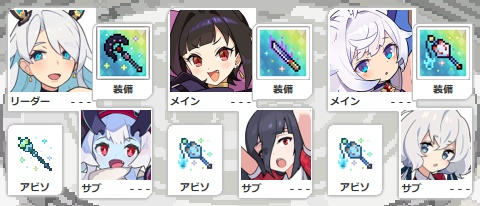
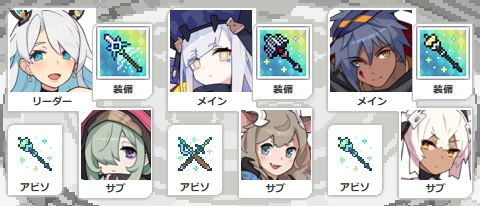
本番データに差し替え

diff --git a/party/dimension_witch-1.html b/party/dimension_witch-1.html
@@ -6,11 +6,12 @@
   <meta http-equiv="content-type" content="text/html; charset=UTF-8">
   <meta charset="utf-8">
   <meta name="viewport" content="width=device-width, initial-scale=1.0, maximum-scale=1.0, user-scalable=no">
-  <title>ベルセティアパーティ | ワーフリパーティアーカイブ</title>
-  <meta property="og:title" content="ベルセティアパーティ">
+  <title>闇おばワンパンパ | ワーフリパーティアーカイブ</title>
+  <meta property="og:title" content="闇おばワンパンパ">
   <meta property="og:type" content="article">
   <meta property="og:site_name" content="ワーフリパーティアーカイブ">
-  <meta property="og:description" content="パーティ詳細">
+  <meta property="og:description" content="編成枠が少なかった頃退避させてたのがあったので投稿
+確か…">
   <meta property="og:url" content="https://lt900ed.github.io/wf_party_archives/party/dimension_witch-1.html">
   <meta property="og:image" content="https://lt900ed.github.io/wf_party_archives/static/party/img/dimension_witch-1.ja.jpg">
   <meta name="twitter:site" content="@WFPartyFinder">
@@ -56,13 +57,13 @@
     </article>
   </div>
   <div class="wrapper">
-    <article id="detail" data-party_id="dimension_witch-1" data-party="17">
+    <article id="detail" data-party_id="dimension_witch-1" data-party="15">
       <section id="top">
-        <div class="pageTitle">ベルセティアパーティ</div>
+        <div class="pageTitle">闇おばワンパンパ</div>
         <div class="partyImage"><img src="/wf_party_archives/static/party/img/dimension_witch-1.ja.jpg"></div>
         <div>
           <div id="functionButtons"><a
-              href="https://twitter.com/intent/tweet?text=%E3%83%99%E3%83%AB%E3%82%BB%E3%83%86%E3%82%A3%E3%82%A2%E3%83%91%E3%83%BC%E3%83%86%E3%82%A3%7C%E3%83%AF%E3%83%BC%E3%83%95%E3%83%AA%E3%83%91%E3%83%BC%E3%83%86%E3%82%A3%E3%82%A2%E3%83%BC%E3%82%AB%E3%82%A4%E3%83%96&url=https://lt900ed.github.io/wf_party_archives/party/dimension_witch-1.html&hashtags=%E3%83%AF%E3%83%BC%E3%83%95%E3%83%AA&via=WFPartyFinder"
+              href="https://twitter.com/intent/tweet?text=%E9%97%87%E3%81%8A%E3%81%B0%E3%83%AF%E3%83%B3%E3%83%91%E3%83%B3%E3%83%91%7C%E3%83%AF%E3%83%BC%E3%83%95%E3%83%AA%E3%83%91%E3%83%BC%E3%83%86%E3%82%A3%E3%82%A2%E3%83%BC%E3%82%AB%E3%82%A4%E3%83%96&url=https://lt900ed.github.io/wf_party_archives/party/dimension_witch-1.html&hashtags=%E3%83%AF%E3%83%BC%E3%83%95%E3%83%AA&via=WFPartyFinder"
               target="_blank">
               <div id="btnTwitter" class="functionWrap">
                 <div class="icon--twitter"></div>
@@ -80,7 +81,7 @@
             射撃パワフリ
           </div>
           <div class="datewrap">
-            2022年9月27日16:21
+            2021年3月3日0:36
           </div>
         </div>
       </section>
@@ -88,8 +89,38 @@
       <section id="quest"><label>クエスト投票・タグ</label><span>
           <ul class="selectList">
             
-            <li class="questli questBox"><div id="poll-17-13" class="questWrap">
-              <a href="/wf_party_archives/">大蛇 マルチ超級</a>
+            <li class="questli questBox"><div id="poll-15-58" class="questWrap">
+              <a href="/wf_party_archives/">アドミ マルチ上級</a>
+              <div class="icon--useful"></div>
+              <div class="useful_cnt">x1</div>
+            </div></li>
+            
+            <li class="questli questBox"><div id="poll-15-60" class="questWrap">
+              <a href="/wf_party_archives/">虎 マルチ上級</a>
+              <div class="icon--useful"></div>
+              <div class="useful_cnt">x1</div>
+            </div></li>
+            
+            <li class="questli questBox"><div id="poll-15-64" class="questWrap">
+              <a href="/wf_party_archives/">烏賊 マルチ上級</a>
+              <div class="icon--useful"></div>
+              <div class="useful_cnt">x1</div>
+            </div></li>
+            
+            <li class="questli questBox"><div id="poll-15-65" class="questWrap">
+              <a href="/wf_party_archives/">ゴレ マルチ上級</a>
+              <div class="icon--useful"></div>
+              <div class="useful_cnt">x1</div>
+            </div></li>
+            
+            <li class="questli questBox"><div id="poll-15-66" class="questWrap">
+              <a href="/wf_party_archives/">ルイガ マルチ上級</a>
+              <div class="icon--useful"></div>
+              <div class="useful_cnt">x1</div>
+            </div></li>
+            
+            <li class="questli questBox"><div id="poll-15-67" class="questWrap">
+              <a href="/wf_party_archives/">レシ マルチ上級</a>
               <div class="icon--useful"></div>
               <div class="useful_cnt">x1</div>
             </div></li>
@@ -99,11 +130,68 @@
       <section id="tag"><span>
           <ul class="selectList">
             
+            <li class="tagli tagBox">
+              <div class="tagwrap">
+                <a href="/?tag_descs=貫通#searchResult">#貫通</a>
+                <div class="icon--cross inactive"></div>
+              </div>
+            </li>
+            
+            <li class="tagli tagBox">
+              <div class="tagwrap">
+                <a href="/?tag_descs=背水#searchResult">#背水</a>
+                <div class="icon--cross inactive"></div>
+              </div>
+            </li>
+            
+            <li class="tagli tagBox">
+              <div class="tagwrap">
+                <a href="/?tag_descs=アタッカー編成#searchResult">#アタッカー編成</a>
+                <div class="icon--cross inactive"></div>
+              </div>
+            </li>
+            
+            <li class="tagli tagBox">
+              <div class="tagwrap">
+                <a href="/?tag_descs=闇属性#searchResult">#闇属性</a>
+                <div class="icon--cross inactive"></div>
+              </div>
+            </li>
+            
+            <li class="tagli tagBox">
+              <div class="tagwrap">
+                <a href="/?tag_descs=ワンパン#searchResult">#ワンパン</a>
+                <div class="icon--cross inactive"></div>
+              </div>
+            </li>
+            
+            <li class="tagli tagBox">
+              <div class="tagwrap">
+                <a href="/?tag_descs=オート向け#searchResult">#オート向け</a>
+                <div class="icon--cross inactive"></div>
+              </div>
+            </li>
+            
+            <li class="tagli tagBox">
+              <div class="tagwrap">
+                <a href="/?tag_descs=スキルダメージ#searchResult">#スキルダメージ</a>
+                <div class="icon--cross inactive"></div>
+              </div>
+            </li>
+            
+            <li class="tagli tagBox">
+              <div class="tagwrap">
+                <a href="/?tag_descs=速攻#searchResult">#速攻</a>
+                <div class="icon--cross inactive"></div>
+              </div>
+            </li>
+            
           </ul>
         </span></section>
       <hr>
       <section id="text"><label>メモ</label>
-        <div class="markdown-body editormd-preview-container" id=memo_text><p>パーティ詳細</p></div>
+        <div class="markdown-body editormd-preview-container" id=memo_text><p>編成枠が少なかった頃退避させてたのがあったので投稿<br />
+確か各種上級ワンパン用だったはず</p></div>
       </section>
       <hr>
       
@@ -120,44 +208,44 @@
             
             <tr>
               <td class="colHeader"><img src="/wf_party_archives/static/root/img/chars/dimension_witch/square_0.png"></td>
-              <td class="colData abi4"><div class="abiVal v0"></div></td>
-              <td class="colData abi5"><div class="abiVal v0"></div></td>
-              <td class="colData abi6"><div class="abiVal v0"></div></td>
+              <td class="colData abi4"><div class="abiVal v-1"></div></td>
+              <td class="colData abi5"><div class="abiVal v-1"></div></td>
+              <td class="colData abi6"><div class="abiVal v-1"></div></td>
             </tr>
             
             <tr>
-              <td class="colHeader"><img src="/wf_party_archives/static/root/img/chars/devil_princess_xm20/square_0.png"></td>
-              <td class="colData abi4"><div class="abiVal v0"></div></td>
-              <td class="colData abi5"><div class="abiVal v0"></div></td>
-              <td class="colData abi6"><div class="abiVal v0"></div></td>
+              <td class="colHeader"><img src="/wf_party_archives/static/root/img/chars/reaper_girl/square_0.png"></td>
+              <td class="colData abi4"><div class="abiVal v-1"></div></td>
+              <td class="colData abi5"><div class="abiVal v-1"></div></td>
+              <td class="colData abi6"><div class="abiVal v-1"></div></td>
             </tr>
             
             <tr>
-              <td class="colHeader"><img src="/wf_party_archives/static/root/img/chars/dark_psygirl_dst21/square_0.png"></td>
-              <td class="colData abi4"><div class="abiVal v0"></div></td>
-              <td class="colData abi5"><div class="abiVal v0"></div></td>
-              <td class="colData abi6"><div class="abiVal v0"></div></td>
+              <td class="colHeader"><img src="/wf_party_archives/static/root/img/chars/touyakiren_ceo/square_0.png"></td>
+              <td class="colData abi4"><div class="abiVal v-1"></div></td>
+              <td class="colData abi5"><div class="abiVal v-1"></div></td>
+              <td class="colData abi6"><div class="abiVal v-1"></div></td>
             </tr>
             
             <tr>
-              <td class="colHeader"><img src="/wf_party_archives/static/root/img/chars/yamada_tae/square_0.png"></td>
-              <td class="colData abi4"><div class="abiVal v0"></div></td>
-              <td class="colData abi5"><div class="abiVal v0"></div></td>
-              <td class="colData abi6"><div class="abiVal v0"></div></td>
+              <td class="colHeader"><img src="/wf_party_archives/static/root/img/chars/whitedog_beast/square_0.png"></td>
+              <td class="colData abi4"><div class="abiVal v-1"></div></td>
+              <td class="colData abi5"><div class="abiVal v-1"></div></td>
+              <td class="colData abi6"><div class="abiVal v-1"></div></td>
             </tr>
             
             <tr>
-              <td class="colHeader"><img src="/wf_party_archives/static/root/img/chars/summoner_little/square_0.png"></td>
-              <td class="colData abi4"><div class="abiVal v0"></div></td>
-              <td class="colData abi5"><div class="abiVal v0"></div></td>
-              <td class="colData abi6"><div class="abiVal v0"></div></td>
+              <td class="colHeader"><img src="/wf_party_archives/static/root/img/chars/chakram_shooter/square_0.png"></td>
+              <td class="colData abi4"><div class="abiVal v-1"></div></td>
+              <td class="colData abi5"><div class="abiVal v-1"></div></td>
+              <td class="colData abi6"><div class="abiVal v-1"></div></td>
             </tr>
             
             <tr>
-              <td class="colHeader"><img src="/wf_party_archives/static/root/img/chars/konno_junko/square_0.png"></td>
-              <td class="colData abi4"><div class="abiVal v0"></div></td>
-              <td class="colData abi5"><div class="abiVal v0"></div></td>
-              <td class="colData abi6"><div class="abiVal v0"></div></td>
+              <td class="colHeader"><img src="/wf_party_archives/static/root/img/chars/battle_maid/square_0.png"></td>
+              <td class="colData abi4"><div class="abiVal v-1"></div></td>
+              <td class="colData abi5"><div class="abiVal v-1"></div></td>
+              <td class="colData abi6"><div class="abiVal v-1"></div></td>
             </tr>
             
           
@@ -171,11 +259,11 @@
           <tbody>
             <tr>
               <td class="col_header">登録日</td>
-              <td class="col_data">2022年9月27日16:21</td>
+              <td class="col_data">2021年3月3日0:36</td>
             </tr>
             <tr>
               <td class="col_header">パーティコード</td>
-              <td id="tdPartyCode" class="col_data">ABCDEFGHI</td>
+              <td id="tdPartyCode" class="col_data"></td>
             </tr>
             <tr>
               <td class="col_header">パワーフリップ</td>
@@ -189,32 +277,32 @@
             
             <tr>
               <td class="col_header">リーダーユニゾン</td>
-              <td class="col_data">悪魔っ子サンタ アルム</td>
+              <td class="col_data">死者の守人 ファルチェ</td>
             </tr>
             
             <tr>
               <td class="col_header">メイン2人目</td>
-              <td class="col_data">‡暗黒少女零式‡ ディーネ</td>
+              <td class="col_data">終わらぬ夜の太母 ラヴ</td>
             </tr>
             
             <tr>
               <td class="col_header">ユニゾン2人目</td>
-              <td class="col_data">ゾンビ０号 山田たえ</td>
+              <td class="col_data">無鉄砲な傭兵剣士 フロレッタ</td>
             </tr>
             
             <tr>
               <td class="col_header">メイン3人目</td>
-              <td class="col_data">扉を開く者 クエット</td>
+              <td class="col_data">寡黙な巡業者 ジャリル</td>
             </tr>
             
             <tr>
               <td class="col_header">ユニゾン3人目</td>
-              <td class="col_data">ゾンビ４号 紺野純子</td>
+              <td class="col_data">戦闘メイド マリアンネ</td>
             </tr>
             
             <tr>
               <td class="col_header">リーダー装備</td>
-              <td class="col_data">怠惰の杖</td>
+              <td class="col_data">マルテ</td>
             </tr>
             
             <tr>
@@ -224,22 +312,22 @@
             
             <tr>
               <td class="col_header">2人目武器</td>
-              <td class="col_data">殺生石の匕首</td>
+              <td class="col_data">暴食の槍</td>
             </tr>
             
             <tr>
               <td class="col_header">2人目ソウル</td>
-              <td class="col_data">鳴狐の杖</td>
+              <td class="col_data">極彩宝石の双剣</td>
             </tr>
             
             <tr>
               <td class="col_header">3人目武器</td>
-              <td class="col_data">鳴狐の杖</td>
+              <td class="col_data">24／7</td>
             </tr>
             
             <tr>
               <td class="col_header">3人目ソウル</td>
-              <td class="col_data">鳴狐の杖</td>
+              <td class="col_data">24／7</td>
             </tr>
             
           </tbody>
@@ -250,14 +338,6 @@
         <label>コメント</label>
         <span>
           <ul id="comment_list">
-            
-            <li class="commentli">
-              <div class="comment_header">
-                <div class="comment_no">1.</div>
-                <div class="comment_date">2023年4月20日4:49</div>
-              </div>
-              <div class="comment_text">あいうえお</div>
-            </li>
             
           </ul>
         </span>
